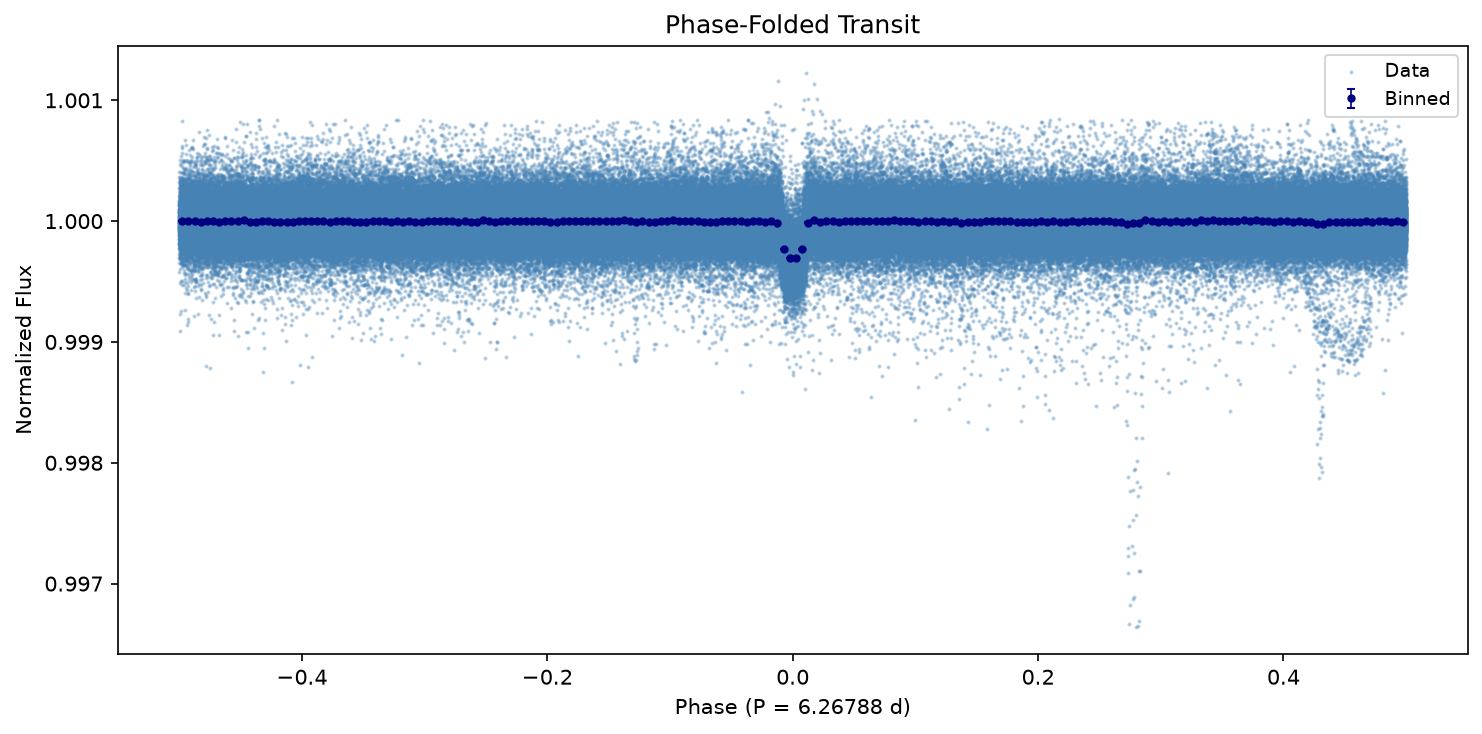
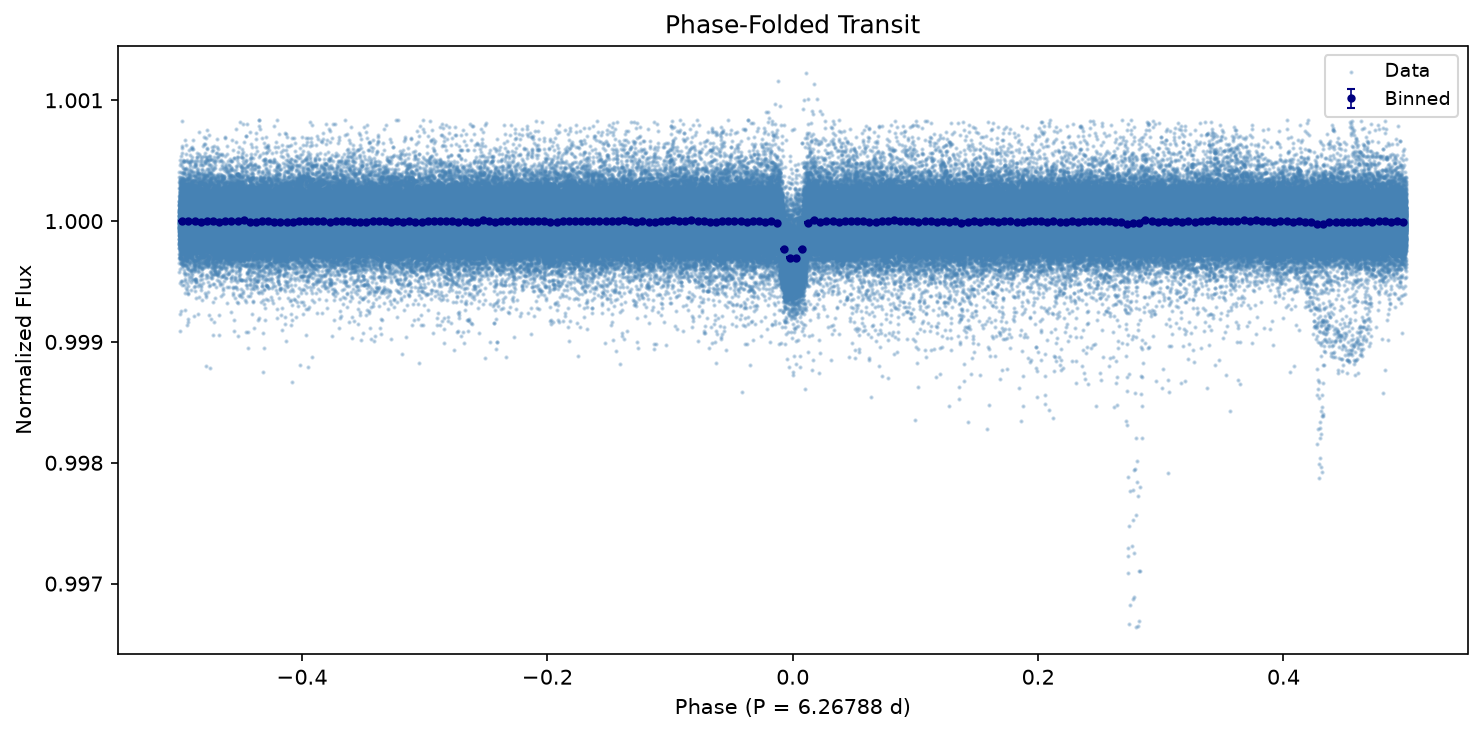
refactor: optimize sampling performance, remove explicit initvals from priors, and update log-likelihood calculation for inference models

diff --git a/src/tess_pipeline/inference/priors.py b/src/tess_pipeline/inference/priors.py
@@ -40,7 +40,6 @@ def add_stellar_priors(
                 mu=rho_star,
                 sigma=rho_err,
                 lower=0.0,
-                initval=rho_star,
             )
         else:
             # Broad log-normal when stellar density is unknown
@@ -48,7 +47,6 @@ def add_stellar_priors(
                 "rho_star",
                 mu=np.log(1.4),   # solar density in g/cm³
                 sigma=1.0,
-                initval=1.4,
             )
 
     return {"rho_star": rho_star_var}
@@ -80,7 +78,6 @@ def add_orbital_priors(
                 mu=periods,
                 sigma=periods * 0.01,   # 1% width
                 shape=n_planets,
-                initval=periods,
             )
 
         t0_mu = []
@@ -93,7 +90,6 @@ def add_orbital_priors(
             mu=t0_mu,
             sigma=0.1,   # 0.1 day width on transit midtime
             shape=n_planets,
-            initval=t0_mu,
         )
 
     return {"period": period_var, "t0": t0_var}
@@ -128,12 +124,11 @@ def add_transit_shape_priors(
             lower=np.log(0.001),
             upper=np.log(0.5),
             shape=n_planets,
-            initval=np.log(rp_inits),
         )
         rp_r_star = pm.Deterministic("rp_r_star", pm.math.exp(log_rp))
 
         # ── Impact parameter ──────────────────────────────────────────────────
-        b = pm.Uniform("b", lower=0.0, upper=1.0 + rp_r_star, shape=n_planets, initval=np.array([0.1] * n_planets))
+        b = pm.Uniform("b", lower=0.0, upper=1.0 + rp_r_star, shape=n_planets)
 
         # ── Transit duration T14 (days) ────────────────────────────────────────
         t14 = None
@@ -143,13 +138,12 @@ def add_transit_shape_priors(
                 lower=np.log(0.01),
                 upper=np.log(0.5),
                 shape=n_planets,
-                initval=np.array([0.1] * n_planets),
             )
             t14 = pm.Deterministic("t14", pm.math.exp(log_t14))
 
         # ── Kipping (2013) limb darkening (Shared stellar property) ────────────
-        q1 = pm.Uniform("q1", lower=0.0, upper=1.0, initval=0.3)
-        q2 = pm.Uniform("q2", lower=0.0, upper=1.0, initval=0.3)
+        q1 = pm.Uniform("q1", lower=0.0, upper=1.0)
+        q2 = pm.Uniform("q2", lower=0.0, upper=1.0)
 
         # Transform to physical (u1, u2):  u1 = 2√q1·q2, u2 = √q1(1 - 2q2)
         sqrt_q1 = pm.math.sqrt(q1)
@@ -185,13 +179,11 @@ def add_systematic_priors(
             mu=0.0,
             sigma=0.01,
             shape=n_sectors,
-            initval=[0.0] * n_sectors,
         )
         log_jitter = pm.Normal(
             "log_jitter",
             mu=-6.0,
             sigma=2.0,
-            initval=-6.0,
         )
         jitter = pm.Deterministic("jitter", pm.math.exp(log_jitter))
 

diff --git a/src/tess_pipeline/inference/gp.py b/src/tess_pipeline/inference/gp.py
@@ -58,8 +58,8 @@ def build_gp(
 
     with model:
         # ── GP hyperparameters ────────────────────────────────────────────────
-        log_sigma_gp = pm.Normal("log_sigma_gp", mu=-3.0, sigma=2.0, initval=-3.0)
-        log_rho_gp = pm.Normal("log_rho_gp", mu=np.log(10.0), sigma=2.0, initval=np.log(10.0))
+        log_sigma_gp = pm.Normal("log_sigma_gp", mu=-3.0, sigma=2.0)
+        log_rho_gp = pm.Normal("log_rho_gp", mu=np.log(10.0), sigma=2.0)
 
         sigma_gp = pm.Deterministic("sigma_gp", pm.math.exp(log_sigma_gp))
         rho_gp = pm.Deterministic("rho_gp", pm.math.exp(log_rho_gp))

diff --git a/src/tess_pipeline/inference/bayesian.py b/src/tess_pipeline/inference/bayesian.py
@@ -222,13 +222,14 @@ def run_bayesian_fit(
             draws=draws,
             tune=tune,
             chains=chains,
+            cores=min(chains, 8),
             target_accept=target_accept,
             initvals=init_dict,
             init="adapt_diag",
             return_inferencedata=True,
             progressbar=True,
-            idata_kwargs={"log_likelihood": True},
         )
+        pm.compute_log_likelihood(trace)
 
     log.info("Sampling complete")
 